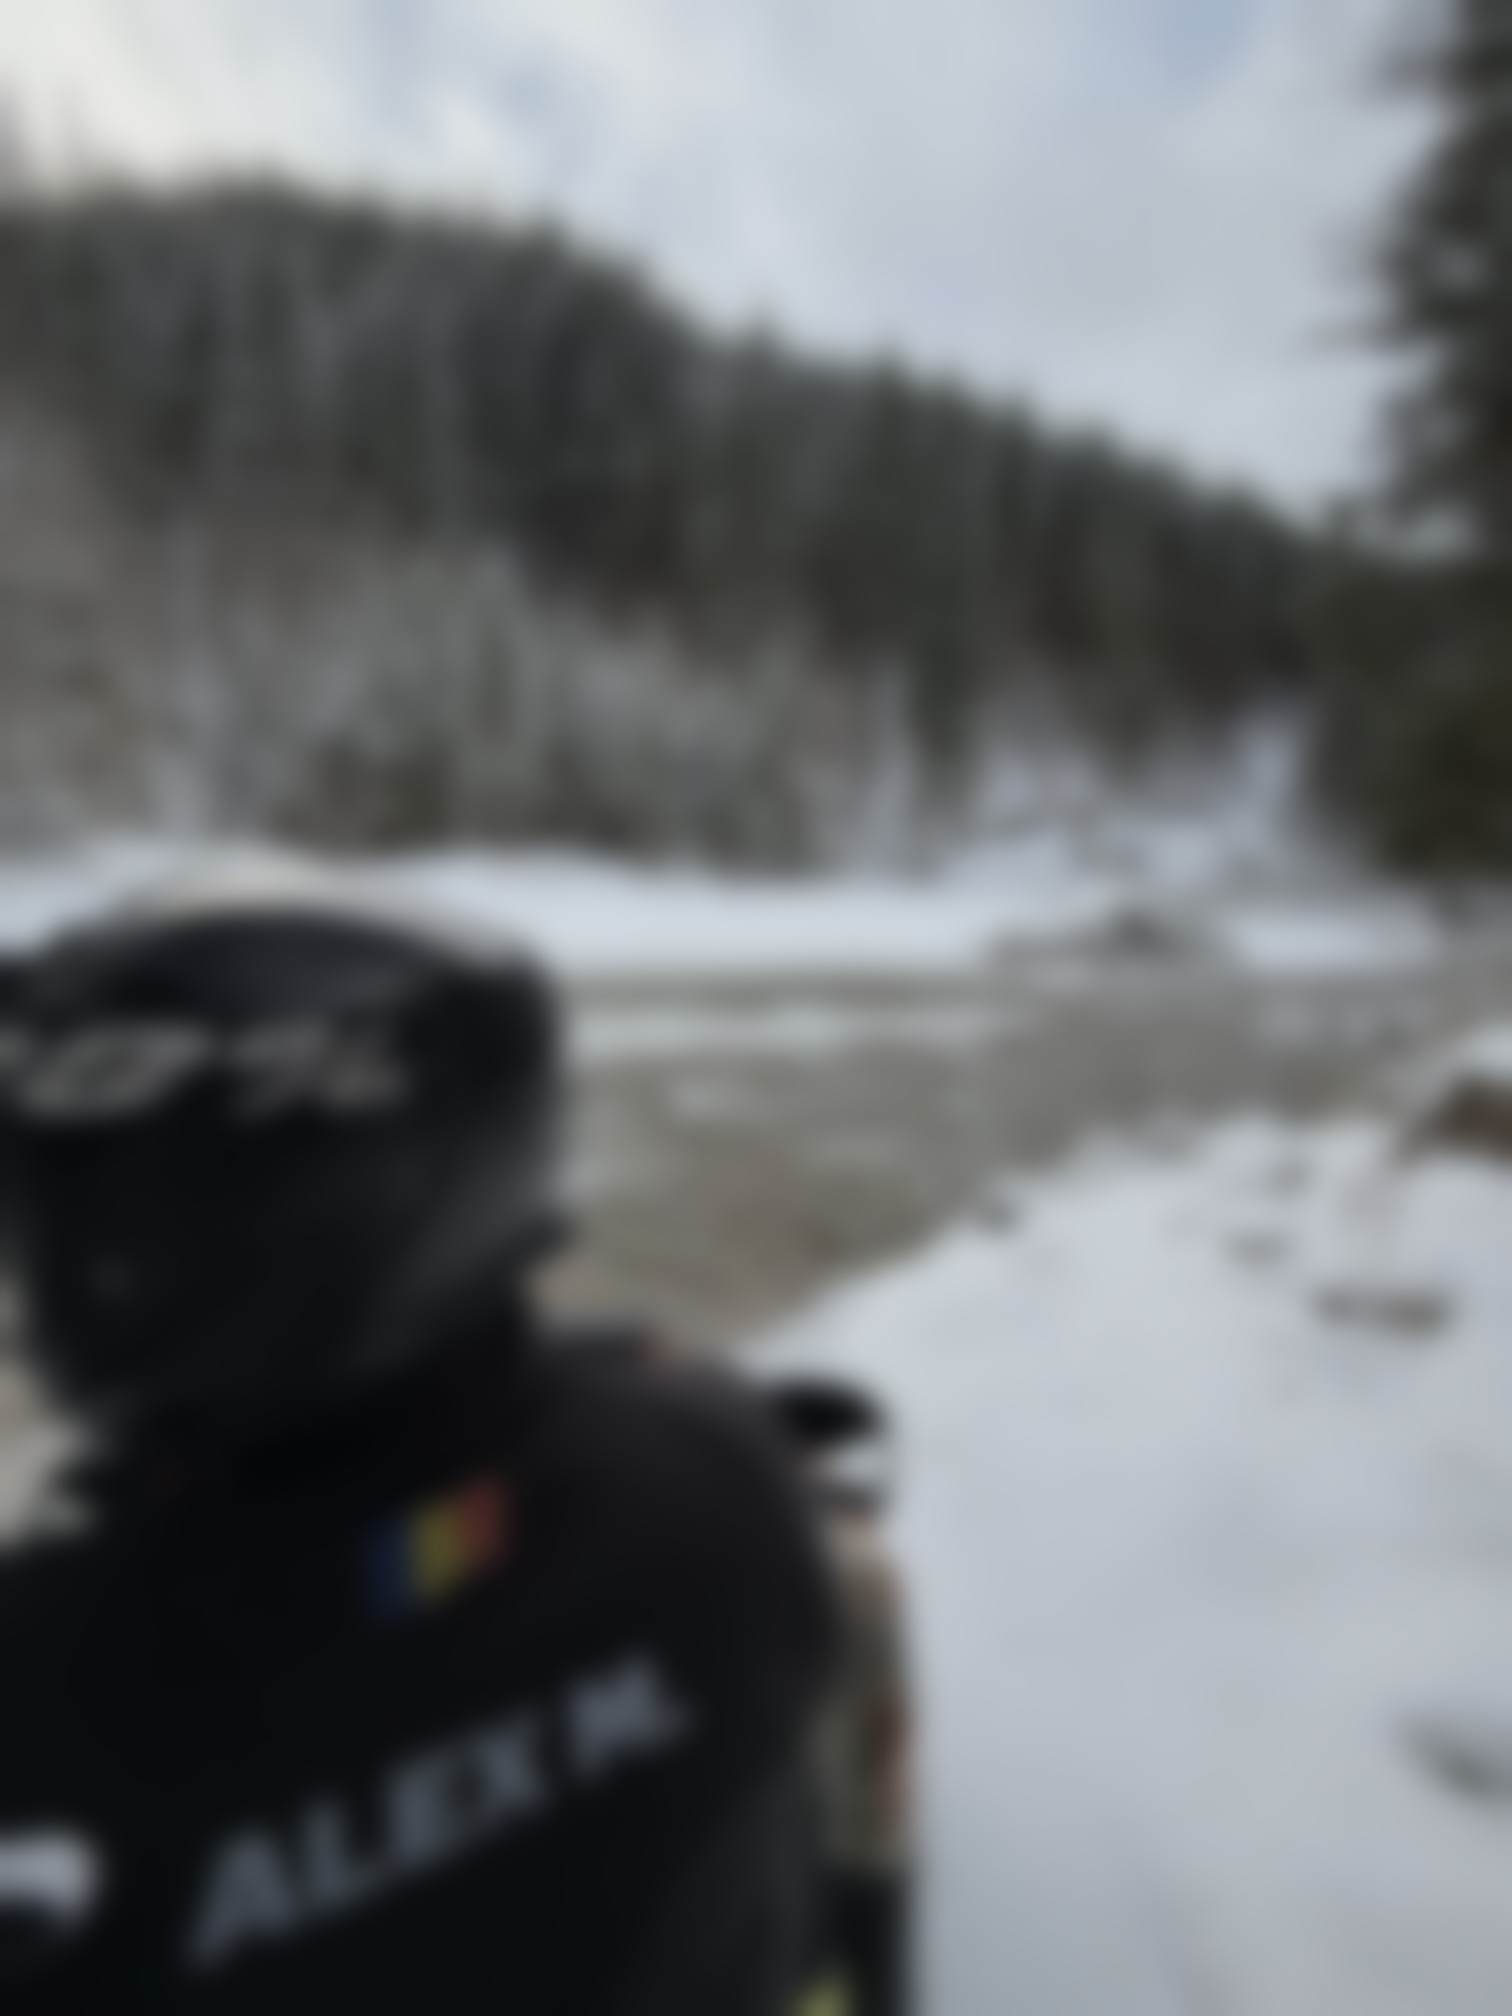
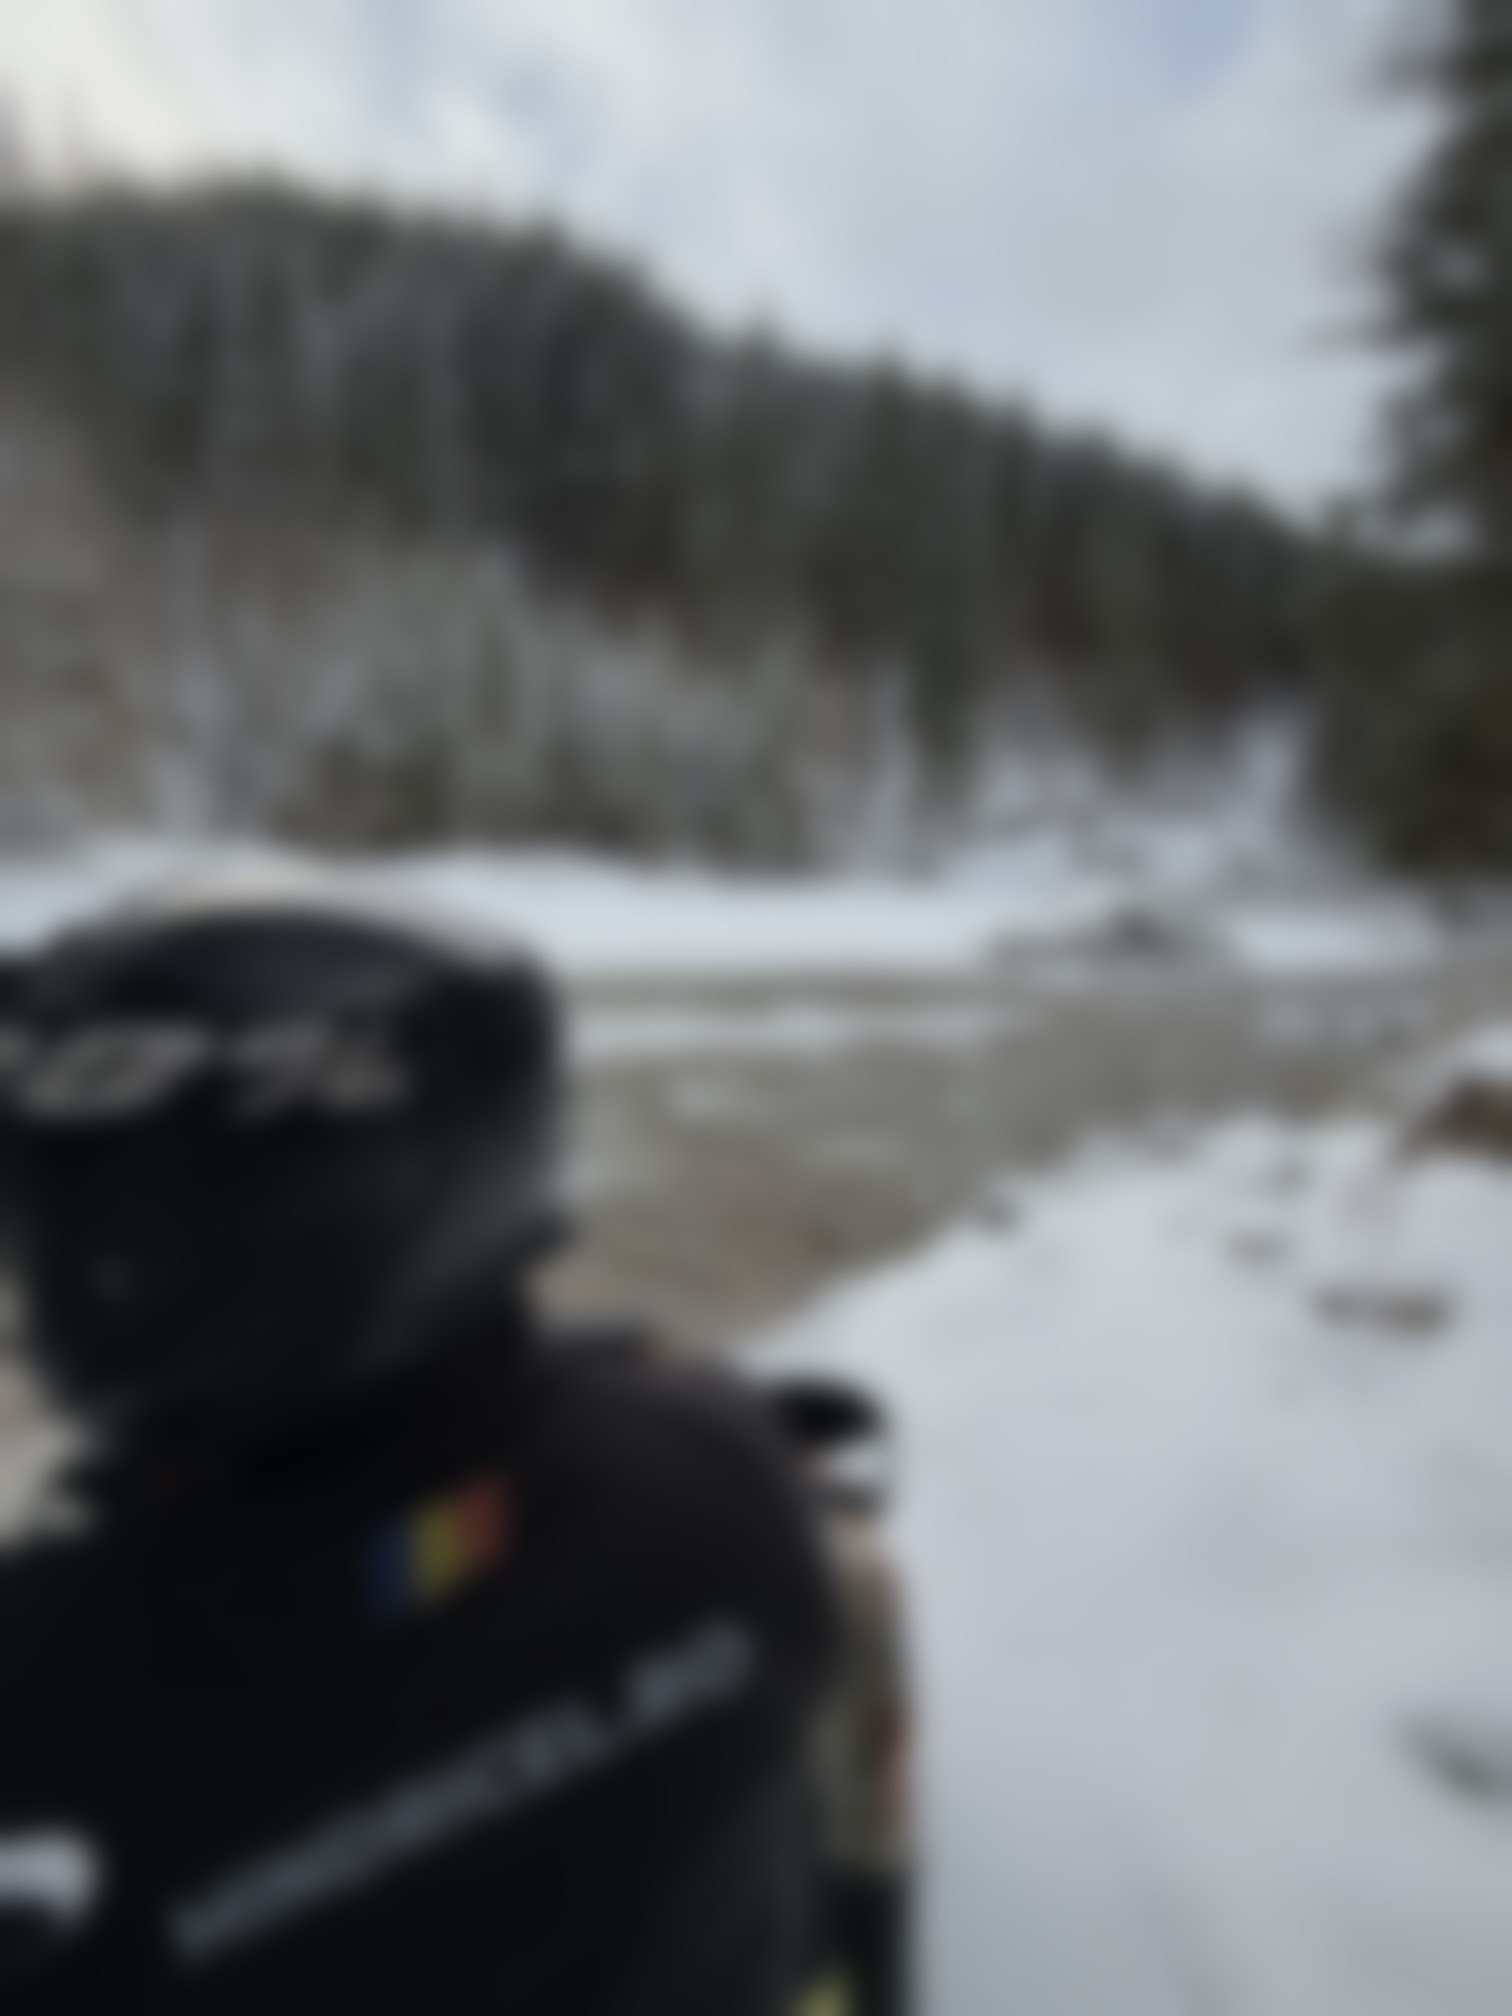
Giveaway: jacket print now reads MINDRICEL.RO instead of the rider's name
Claude-Session: https://claude.ai/code/session_01BikhFmAj6zsRsX4kAHmHp9

Changed region(s): [[0.3108, 0.7812, 0.4974, 0.9062], [0.2176, 0.875, 0.3108, 0.9375], [0.1243, 0.9062, 0.1865, 0.9375]]

diff --git a/social/giveaway-craciun/assets/txt.html b/social/giveaway-craciun/assets/txt.html
@@ -1,0 +1,11 @@
+<!doctype html><html><head><meta charset="utf-8">
+<link rel="stylesheet" href="/home/user/video-workflow/renderer/fonts.css">
+<style>html,body{margin:0;width:1512px;height:2016px;overflow:hidden;background:transparent}
+#t{position:absolute;left:0;top:0;white-space:nowrap;color:#fff;font:800 var(--fs) 'Montserrat';letter-spacing:.01em;line-height:1;
+transform-origin:0 0;}</style></head><body><div id="t">MINDRICEL.RO</div>
+<script>
+const q=new URLSearchParams(location.search), fs=+q.get('fs'), cx=+q.get('cx'), cy=+q.get('cy'), ang=+q.get('a'), sk=+q.get('sk');
+const t=document.getElementById('t'); t.style.setProperty('--fs', fs+'px');
+document.fonts.ready.then(()=>{ const w=t.offsetWidth, h=t.offsetHeight;
+  t.style.transform=`translate(${cx}px,${cy}px) rotate(${ang}deg) skewX(${sk}deg) translate(${-w/2}px,${-h/2}px)`; document.title='ok '+w;});
+</script></body></html>

diff --git a/social/giveaway-craciun/giveaway.html b/social/giveaway-craciun/giveaway.html
@@ -8,7 +8,7 @@
   body { font-family: 'Inter', sans-serif; color: #fff; position: relative; -webkit-font-smoothing: antialiased; }
   body.post { --H: 1350px; } body.story { --H: 1920px; }
 
-  .bg { position: absolute; inset: 0; background: url(assets/hero.jpg) center 40% / cover no-repeat; }
+  .bg { position: absolute; inset: 0; background: url(assets/hero-mr.jpg) center 40% / cover no-repeat; }
   .story .bg { background-position: 30% center; }
   .shade { position: absolute; inset: 0;
     background: linear-gradient(180deg, rgba(0,0,0,.30) 0%, rgba(0,0,0,0) 26%, rgba(0,0,0,0) 55%, rgba(0,0,0,.45) 100%),

diff --git a/social/giveaway-craciun/assets/txt.js b/social/giveaway-craciun/assets/txt.js
@@ -1,0 +1,6 @@
+const { chromium } = require('playwright');
+(async () => { const [d, qs] = process.argv.slice(2); const b = await chromium.launch();
+  const p = await b.newPage({ viewport: { width: 1512, height: 2016 } });
+  await p.goto(`file://${d}/txt.html?${qs}`); await p.waitForFunction(() => document.title.startsWith('ok'));
+  console.log(await p.title());
+  await p.screenshot({ path: `${d}/gw/txtnew.png`, omitBackground: true }); await b.close(); })();

diff --git a/social/giveaway-craciun/assets/txtcomp.py b/social/giveaway-craciun/assets/txtcomp.py
@@ -1,0 +1,37 @@
+import cv2, numpy as np, sys
+D=sys.argv[1]; rng=np.random.default_rng(3)
+im=cv2.imread(f'{D}/hero.jpg'); H,W=im.shape[:2]
+g=cv2.cvtColor(im,cv2.COLOR_BGR2GRAY).astype(np.float32)
+roi=np.zeros((H,W),np.uint8)
+cv2.fillPoly(roi,[np.array([[165,2014],[165,1890],[540,1615],[722,1618],[728,1716],[430,2016]],np.int32)],255)
+old=((g>45)&(roi>0)).astype(np.uint8)*255
+old=cv2.morphologyEx(old,cv2.MORPH_OPEN,np.ones((3,3),np.uint8))
+old=cv2.dilate(old,cv2.getStructuringElement(cv2.MORPH_ELLIPSE,(13,13)))
+# shading of the old print (lit lower-left, darker toward the shoulder): fit a plane to its brightness
+ys,xs=np.where((g>95)&(roi>0))
+A=np.c_[xs,ys,np.ones_like(xs)]; coef,*_=np.linalg.lstsq(A,g[ys,xs],rcond=None)
+print('old print L plane',coef, 'mean',g[ys,xs].mean())
+col=np.median(im[(g>95)&(roi>0)].astype(np.float32),axis=0); print('print colour',col)
+# 1) remove old print: inpaint, then restore fabric grain
+clean=cv2.inpaint(im,old,21,cv2.INPAINT_TELEA).astype(np.float32)
+sm=cv2.GaussianBlur(clean,(0,0),6)
+grain=rng.normal(0,2.6,(H,W,1)).astype(np.float32)
+om=cv2.GaussianBlur((old>0).astype(np.float32),(0,0),3)[...,None]
+clean=clean*(1-om)+(sm+grain)*om
+# 2) new print
+t=cv2.imread(f'{D}/txtnew.png',cv2.IMREAD_UNCHANGED)[...,3].astype(np.float32)/255
+t=cv2.GaussianBlur(t,(0,0),0.9)
+yy,xx=np.mgrid[0:H,0:W]
+L=coef[0]*xx+coef[1]*yy+coef[2]
+shade=(L/np.median(g[ys,xs]))[...,None]
+# fabric folds show through the print: high-pass of the cleaned fabric luminance
+cl=cv2.cvtColor(np.clip(clean,0,255).astype(np.uint8),cv2.COLOR_BGR2GRAY).astype(np.float32)
+fold=(cl-cv2.GaussianBlur(cl,(0,0),25))/30.0
+# worn / cracked print like the original
+crack=cv2.GaussianBlur(rng.normal(0,1,(H,W)).astype(np.float32),(0,0),1.4); crack/=crack.std()
+wear=np.clip(1-0.55*np.clip(crack-1.3,0,None),0,1)
+ta=(t*wear)[...,None]
+pc=col*1.1*shade*(1+0.35*fold[...,None]) + rng.normal(0,4,(H,W,1)).astype(np.float32)
+out=clean*(1-ta*0.97)+pc*ta*0.97
+cv2.imwrite(f'{D}/hero-mr.jpg',np.clip(out,0,255).astype(np.uint8),[cv2.IMWRITE_JPEG_QUALITY,94])
+cv2.imwrite(f'{D}/txtcrop.jpg',np.clip(out,0,255).astype(np.uint8)[1450:2016,0:900])
